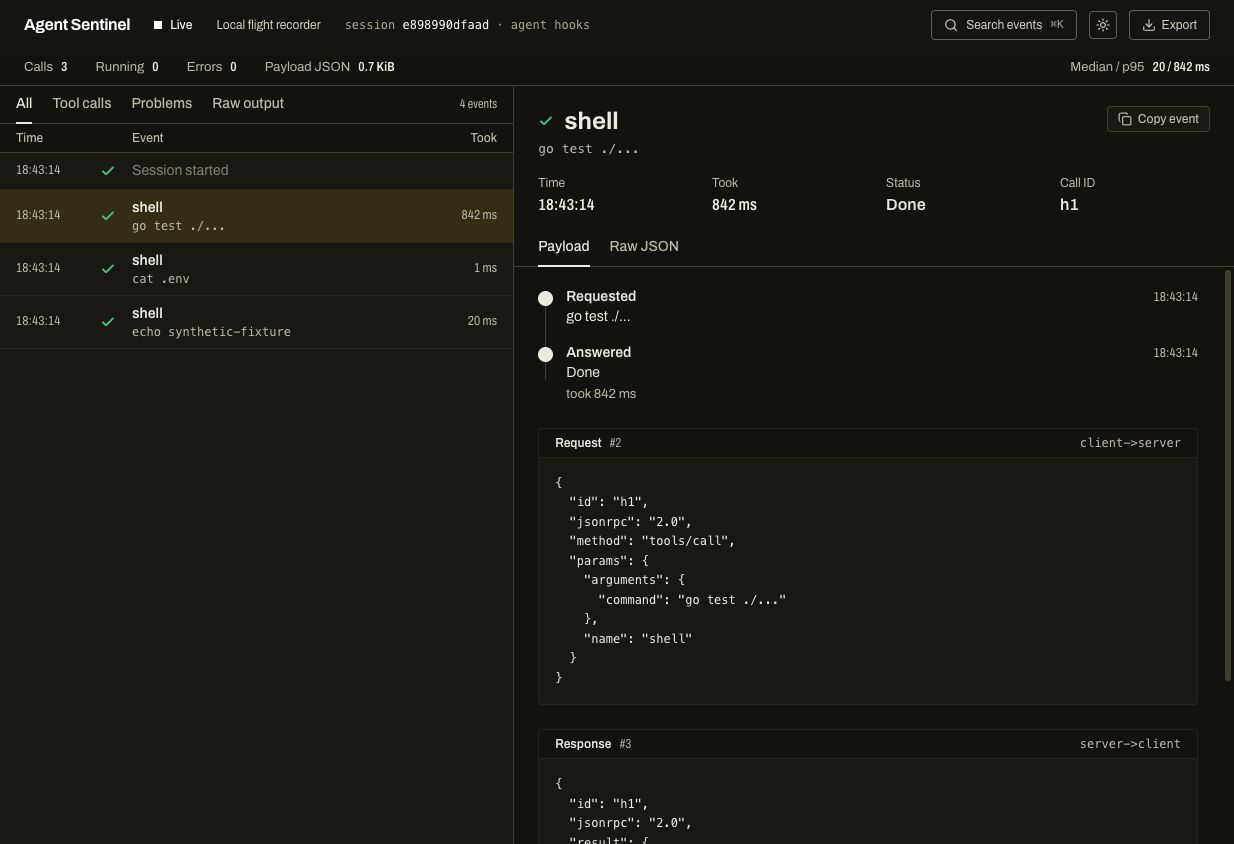
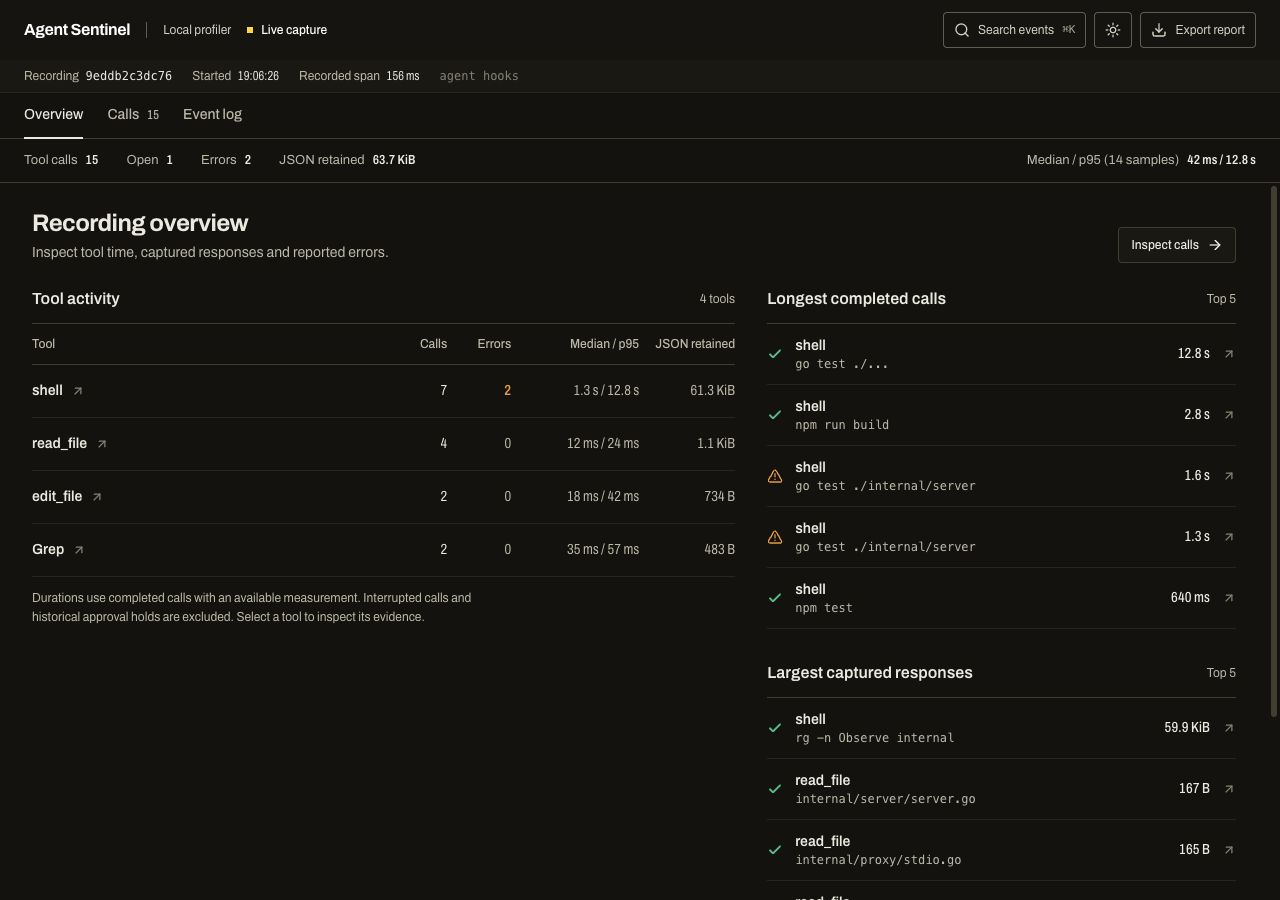
docs: record profiler cockpit capabilities and verified preview

diff --git a/docs/PROGRESS.md b/docs/PROGRESS.md
@@ -12,20 +12,31 @@ Branch: `telemetry-profiler`. Aggiornamento: 15 ottobre 2026.
 - Cockpit e report si concentrano sulle chiamate e sugli esiti; rimosse approvazioni, modifica dei budget e stime monetarie/token derivate da prezzi fissi.
 - Le vecchie tracce restano leggibili, con decisioni storiche quando presenti. Gli eventi senza policy non mostrano una valutazione inventata.
 
+## Cockpit — Primo profilo di analisi implementato
+
+- Overview iniziale con attività aggregata per tool: chiamate, errori segnalati, mediana/p95 disponibili e JSON conservato.
+- Classifiche delle cinque chiamate completate più lente e delle cinque risposte conservate più grandi. Ogni voce apre gli eventi da cui deriva; selezionare un tool filtra le sue chiamate.
+- Calls con filtri per esito e tool, ricerca negli argomenti conservati e ordinamento per cattura, durata o dimensione della risposta. Event log separato per osservazioni di protocollo e ciclo di vita.
+- Inspector compatto con argomenti/risultato in primo piano, JSON evento secondario e patch quando disponibile. Su mobile passaggio lista/dettaglio con ritorno, senza pannelli compressi.
+- Navigazione da tastiera confinata alla lista attiva; focus contenuto nei dialoghi e ripristinato alla chiusura.
+- Durate assenti conservate come sconosciute; zero esplicito rimane un campione valido. L’intervallo della registrazione deriva dai timestamp catturati e non cresce col tempo trascorso nel browser.
+
+Queste aggregazioni sono calcolate nel frontend sui dati disponibili: anticipano l’ispezione del profiler, senza dichiarare completata la fase 2 del recorder o il motore di analisi Go.
+
 ## Verifiche riproducibili
 
 - Test Go di CLI, neutralità degli adattatori, installazione e proxy con fake server: input sintetici prima bloccati vengono registrati senza decisioni Sentinel e inoltrati invariati nel proxy.
 - Test del client hook contro collector chiuso, risposte legacy e server in stallo su header o body; nessuna attesa illimitata o override dei permessi di Claude Code.
-- Test frontend di percentili, durata zero, esclusione di chiamate interrotte/RPC, byte UTF-8 conservati, journey senza policy e HTML con contenuti ostili resi inerti.
+- Test frontend di percentili, durata zero, esclusione di chiamate interrotte/RPC, byte UTF-8 conservati, journey senza policy, ranking/filtri, durate mancanti, intervallo catturato e HTML con contenuti ostili resi inerti.
 - Smoke test locale con binario temporaneo: config osservativa e tre coppie sintetiche richiesta/risposta Cursor/Claude registrate con esito `ok` e senza policy. Nessun comando contenuto nei payload è stato eseguito.
-- Ispezione del cockpit su desktop e viewport mobile da 390 px. `profiler.png` deriva dalla sessione sintetica; `cockpit.png` resta la schermata storica.
+- Ispezione del cockpit su desktop e viewport mobile da 390 px, inclusi stato vuoto, filtri senza risultati, classifica → dettaglio, errori e dialogo export con focus da tastiera. `profiler.png` mostra la nuova overview con 15 chiamate sintetiche (due errori e una aperta); `cockpit.png` resta la schermata storica. Nessun comando dei fixture viene eseguito.
 
-Check di chiusura passati: `make test` (vet, race test, typecheck e quattro test frontend) e `cd web && npm run build`. Verificati anche link locali e whitespace. Non sono benchmark di performance né una verifica live delle versioni correnti degli agenti esterni.
+Check di chiusura passati: `make test` (vet, race test, typecheck e otto test frontend) e `cd web && npm run build`. Verificati anche link locali e whitespace. Non sono benchmark di performance né una verifica live delle versioni correnti degli agenti esterni.
 
 ## Limiti ancora aperti
 
 - Il recorder mantiene il modello precedente: una registrazione per processo, correlazione e metadati incompleti, possibili perdite dello stream non segnalate e scrittura del sink sincrona. La fase 2 risolve questi aspetti.
-- `Payload JSON` misura solo i payload conservati e riserializzati, non il traffico originale. Gli adattatori possono ridurre o omettere contenuti. Profili di redazione configurabili non ancora implementati.
+- `JSON retained` misura solo i payload conservati e riserializzati, non il traffico originale. Gli adattatori possono ridurre o omettere contenuti. Profili di redazione configurabili non ancora implementati.
 - Metriche ancora calcolate nel frontend; il motore Go unico viene introdotto nelle fasi successive.
 - Nessuna waterfall, analisi automatica delle ripetizioni, occupazione del contesto, usage nativo, diagnostica degli schemi o catalogo multi-sessione implementati in questa fase.
 - Il package di policy e le sue regressioni interne restano nel repository, ma la CLI nuova non offre enforcement. La loro eliminazione non è un prerequisito per osservare passivamente.

diff --git a/PRODUCT.md b/PRODUCT.md
@@ -27,14 +27,16 @@ The Local Profiler & Flight Recorder for AI Agents. A single Go binary with an e
 - The hook collector normally listens on `127.0.0.1:8848`; sessions stream to the cockpit over WebSocket and are stored in local JSONL files.
 - Cursor and Claude Code hooks acknowledge neutrally, including when the collector is unavailable. Delivery has a one-second default HTTP timeout, configurable up to five seconds.
 - MCP stdio traffic is forwarded unchanged in the observation path. A transport-process crash can still interrupt the connection.
-- J/K and arrow keys navigate calls; Cmd/Ctrl+K searches. Export downloads a self-contained HTML report.
+- J/K and arrow keys navigate the focused call list; Cmd/Ctrl+K searches. Export downloads a self-contained HTML report.
 - Existing hook installations and installed executables require an explicit migration; normal development must not modify them silently.
 
 ## Capabilities and Constraints
 
 Implemented in the first pivot phase:
 
-- Live timeline, payload inspector, patch viewer where patch data exists, event search and dark/light themes.
+- Overview as the default view: per-tool activity, top five completed calls by available duration and top five retained responses by JSON size. Every entry opens its captured calls.
+- Calls with exact tool and status filters, search across captured arguments, and sorting by capture order, duration or retained response size. Event log keeps lifecycle and protocol observations accessible separately.
+- Compact arguments/result inspector, secondary event JSON, patch viewer where patch data exists, event search and dark/light themes. On mobile, opening a call replaces the list and provides a back action.
 - Tool-call counts, reported errors, available duration percentiles and retained payload JSON size. No fixed-price token or dollar estimates.
 - Local JSONL recordings, replay of new and old traces, and an offline HTML report with expandable calls. Report payloads remain summarized.
 - Historical risk and policy decisions remain readable only where recorded; there are no live approval or budget controls.
@@ -49,6 +51,12 @@ The current data does not reveal model reasoning, actual context occupancy, prov
 `examples/demo-session.jsonl` is a historical enforcement trace. Synthetic hook fixtures and fake MCP servers exercise passive capture without running the commands in their payloads. `docs/profiler.png` shows a synthetic passive session; `docs/cockpit.png` is historical.
 
 No customer results, performance claims or savings measurements may be fabricated.
+
+## Cockpit Information Hierarchy
+
+Start with the recording summary, then inspect evidence. Navigation is Overview, Calls and Event log. Recording identity, capture connection and available metric sample counts stay visible. The overview exposes observed activity, not automated diagnoses. Missing measurements remain unavailable, and retained JSON is never called context usage. Historical policy data is secondary and appears only when captured.
+
+Keyboard shortcuts belong to the focused list. Search and export overlays contain keyboard focus and restore it when closed.
 
 ## Product Principles
 

diff --git a/README.md b/README.md
@@ -15,14 +15,15 @@ Available now:
 - Passive Cursor and Claude Code hooks, with neutral responses even if the collector is offline.
 - A bounded hook-delivery deadline: one second by default, configurable up to five seconds.
 - MCP stdio proxying without a policy gate; requests and responses are forwarded unchanged.
-- Live event timeline, payload inspector, available patch diffs and search.
+- A recording overview with per-tool activity, longest completed calls and largest retained responses, each linked to its captured evidence.
+- A call inspector with status/tool filters, full-argument search, duration/response-size sorting, available patch diffs and a separate event log.
 - Counts of tool calls and errors, available duration percentiles and retained payload JSON size.
 - Local JSONL recordings and read-only replay, including older enforcement traces.
 - Standalone HTML session reports, without scripts or external assets.
 
-**Planned, not implemented yet:** waterfall, structured capture-quality metadata, session separation, output-size analysis, repeated-call findings, schema diagnostics and a recording catalog. See the [implementation roadmap](docs/ROADMAP.md).
+**Planned, not implemented yet:** waterfall, structured capture-quality metadata, session separation, original output-size measurements, repeated-call findings, schema diagnostics and a recording catalog. See the [implementation roadmap](docs/ROADMAP.md).
 
-![Passive cockpit showing synthetic calls](docs/profiler.png)
+![Profiler overview showing synthetic calls](docs/profiler.png)
 
 This screenshot uses synthetic hook fixtures. No command shown in it was executed by the fixture generator. The previous enforcement cockpit is retained in `docs/cockpit.png` as historical material.
 
@@ -101,7 +102,7 @@ The cockpit's Export button downloads an offline HTML report with summary figure
 
 Durations are those available from the adapter or proxy; they are not the model's thinking time. Median and p95 include completed tool calls with available nonnegative durations, excluding interrupted calls and legacy approval-held spans. Zero milliseconds is valid; absent samples display as unavailable.
 
-**Payload JSON** measures UTF-8 bytes of retained tool payloads reserialized for display. Some hook payloads are synthesized, omitted or truncated. This is neither original wire volume nor actual model tokens or context usage. Sentinel no longer calculates dollars from fixed token-price assumptions.
+**JSON retained** measures UTF-8 bytes of retained tool payloads reserialized for display. Some hook payloads are synthesized, omitted or truncated. This is neither original wire volume nor actual model tokens or context usage. Sentinel no longer calculates dollars from fixed token-price assumptions.
 
 Capture-quality metadata and better treatment of missing/ambiguous timing are planned in the next phase. Current logs do not reconstruct the full model conversation, task boundaries or the workspace state. Local recordings can contain commands, source text and tool output; inspect them before sharing. Configurable capture/redaction profiles are planned, not shipped in this phase.
 
